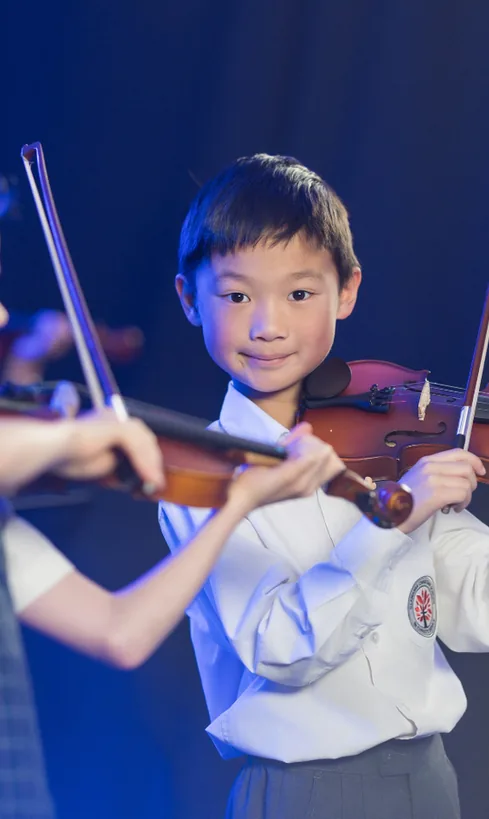
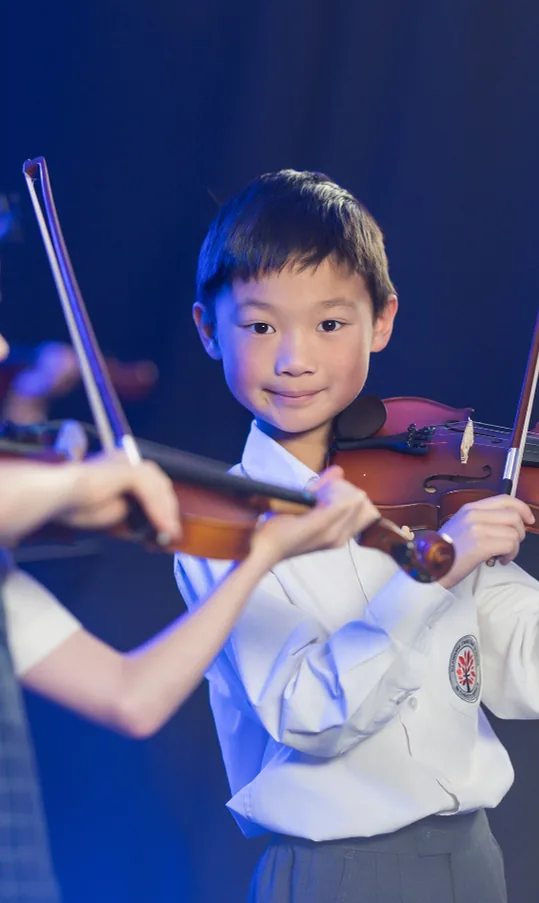
Speed up the inner hero entrance, keep the arriving header steady, sharpen 14 photos from Figma originals

diff --git a/src/assets/scripts/anim.js b/src/assets/scripts/anim.js
@@ -424,7 +424,26 @@ function flush() {
   });
   const hold = window.scrollY < 20 ? Math.max(0, holdUntil - gsap.ticker.time) : 0;
   const step = visible.length > 1 ? Math.min(STAGGER, SPREAD / (visible.length - 1)) : 0;
-  visible.forEach((unit, i) => unit.play(hold + i * step + number(unit.el, "data-anim-delay", 0)));
+  const play = () => visible.forEach((unit, i) => unit.play(i * step + number(unit.el, "data-anim-delay", 0)));
+  if (hold) afterHold(hold, play);
+  else play();
+}
+
+// first-screen reveals wait for the entrance, unless the page is scrolled first
+function afterHold(hold, fn) {
+  let done = false;
+  const run = () => {
+    if (done) return;
+    done = true;
+    call.kill();
+    window.removeEventListener("scroll", onScroll);
+    fn();
+  };
+  const onScroll = () => {
+    if (window.scrollY >= 20) run();
+  };
+  const call = gsap.delayedCall(hold, run);
+  window.addEventListener("scroll", onScroll, { passive: true });
 }
 function enqueue(unit) {
   pending.push(unit);
@@ -480,7 +499,7 @@ function playEntrance(units) {
       landed = Math.max(landed, start + (number(unit.el, "data-anim-landed", 0) || (anim.deferred ? anim.duration : anim.duration())));
     });
   });
-  holdUntil = gsap.ticker.time + BASE + tl.duration() - LEAD;
+  holdUntil = gsap.ticker.time + BASE + landed - LEAD;
   entranceEnd = gsap.ticker.time + BASE + tl.duration() + 0.5;
   return tl;
 }

diff --git a/src/assets/scripts/header.js b/src/assets/scripts/header.js
@@ -5,7 +5,11 @@ export function initHeader() {
   const header = document.querySelector(".site-header");
   const tools = header?.querySelector(".site-header__tools");
   if (!header || !tools) return;
-  const measure = () => header.style.setProperty("--header-tools", `${tools.offsetWidth}px`);
+  const measure = () => {
+    const width = `${tools.offsetWidth}px`;
+    header.style.setProperty("--header-tools", width);
+    try { sessionStorage.setItem("header-tools", width); } catch (e) {}
+  };
   measure();
   window.addEventListener("resize", measure);
   document.fonts?.ready.then(measure);

diff --git a/docs/wagtail-handoff.md b/docs/wagtail-handoff.md
@@ -29,7 +29,7 @@ Focus rings: only for keyboard users. `initFocusMode()` in `ui.js` adds `is-keyb
 
 Search engines: `head.njk` carries `<meta name="robots" content="noindex, nofollow">` so the staging copy stays out of search results. Leave it out of the live base template.
 
-Placeholders left in the data, for the client to replace: the Internal Page Blocks pages (`/page-blocks.html`, `/page-blocks-2.html`) are a kit of example blocks with Figma's placeholder copy ("Internal page example headline", "Subheading", the author's half-written bio), out of the menu; the Faith page's moments repeat "8:15am" and its FAQ answers carry TBCs; Contact's message form repeats the find-us line as its text (as Figma does), its "I'm enquiring about" options after "Enrolment" are placeholders, its photo is Figma's small fill (426 × 562 shown 720 wide; supply a larger original), and its hero is a still of the campus film; the Enrol steps, key dates and FAQ answers carry Figma's "[TBC]" notes; the Entry Points tiles other than Year 5 repeat the home page's tile copy (Figma writes Year 5's only); the Enrol hero is a still of its film (Figma's frame below the header, which covers the top of the fill) until the film is supplied; on Our People every card opens a bio, but only Mr Lainson's is Figma's copy: the other seven are "[TBC]" placeholders; Figma writes one staff quote (Melinda Sharpe's), so every tile repeats its words under its own name, Melinda's photo shows twice (Figma's first tile, and her quote's), and the tile of the staff member Figma does not name reads "Example Name / ICS Staff"; the campus film's `video` is empty; every `url` is empty; the quotes are "Example Name / ICS Parent"; the slide figures are "XX%" (a figure with no digits is left alone by the counter); FAQ answers 2–5 are "[TBC]"; the USP, journey and news photos include stand-ins where Figma draws none (see each block); `video` is empty everywhere (Figma's video fills cannot be exported).
+Placeholders left in the data, for the client to replace: the Internal Page Blocks pages (`/page-blocks.html`, `/page-blocks-2.html`) are a kit of example blocks with Figma's placeholder copy ("Internal page example headline", "Subheading", the author's half-written bio), out of the menu; the Faith page's moments repeat "8:15am" and its FAQ answers carry TBCs; Contact's message form repeats the find-us line as its text (as Figma does), its "I'm enquiring about" options after "Enrolment" are placeholders, its photo is Figma's small fill (426 × 562 shown 720 wide; supply a larger original), and its hero is a still of the campus film; the Enrol steps, key dates and FAQ answers carry Figma's "[TBC]" notes; the Entry Points tiles other than Year 5 repeat the home page's tile copy (Figma writes Year 5's only); the Enrol hero is a still of its film (Figma's frame below the header, which covers the top of the fill) until the film is supplied; on Our People every card opens a bio, but only Mr Lainson's is Figma's copy: the other seven are "[TBC]" placeholders; Figma writes one staff quote (Melinda Sharpe's), so every tile repeats its words under its own name, Melinda's photo shows twice (Figma's first tile, and her quote's), and the tile of the staff member Figma does not name reads "Example Name / ICS Staff"; the campus film's `video` is empty; every `url` is empty; the quotes are "Example Name / ICS Parent"; the slide figures are "XX%" (a figure with no digits is left alone by the counter); FAQ answers 2–5 are "[TBC]"; the USP, journey and news photos include stand-ins where Figma draws none (see each block); `video` is empty everywhere (Figma's video fills cannot be exported). Photos drawn larger than the largest copy Figma holds, so soft on a 1920 screen until the client supplies originals (each file is already Figma's full fill, checked against every image in the file on 2026-11-24): the home slides (`slide-languages-800`, `slide-music-1067`, `slide-camps-1200`, `slide-enrichment-1536`, `slide-leadership-1600`), `journey-year-5`, the 1600-wide heroes and CTA bands (`people-hero-1600`, `entry-hero-1600`, `cta-meet-1600`, `cta-violin-1600`, `cta-classroom`), the Enrol and Contact film stills, Contact's `message-photo`, `story-jeremy`, `text-image-results`, `pillar-faith-ics` and `campus-still`. On a 2× screen most photos are soft for the same reason; Wagtail renditions from full-size originals settle it.
 
 ## Snippets
 
@@ -68,7 +68,7 @@ Figma lays most frames 14–24 up under the rounded foot above them, so the gap 
 ### Header (`partials/header.njk`, `_header.less`, `header.js`)
 - Over the top of the page (`position: absolute`), white. From lg: the landscape logo (`crest.svg` + `wordmark.svg`), `site.header_links` (Museo Sans 500 16, 40 apart, moss on hover) and a frosted pill with `site.header_button` (moss, no dot) and the burger. Below lg: the logo and a white 60 circle with a canopy burger.
 - The burger is `<button data-menu-open aria-haspopup="dialog" aria-controls="menu" aria-expanded>`; `menu.js` opens the menu from any `[data-menu-open]` and keeps `aria-expanded` in step.
-- Entrance: `data-anim-group="fade-down"` on the bar (hero tier, `data-anim-order="4" data-anim-stagger="0.07"`), with `data-anim-item` on the logo, each nav `<li>`, the pill, the pill's button (`anim_item` on the button include) and the burger: once the hero copy is in, they drop 24 one after another from left to right, 0.07s apart, on the compositor on held layers (`will-change: transform` on every item, so the text never redraws half a pixel away as it lands). The frosted pill carries its own `fade` type and takes its turn fading in place as its contents drop in. Below lg the hidden links and button give up their turns, so the burger follows the logo. On a page reached from another of the site's pages the bar carries over (`data-anim-carry`, `anim-carried` set in the head): it shows at once instead of dropping in again (see `docs/animation.md`, Between pages). The Django base template keeps the head script and the attribute as they are.
+- Entrance: `data-anim-group="fade-down"` on the bar (hero tier, `data-anim-order="4" data-anim-stagger="0.07"`), with `data-anim-item` on the logo, each nav `<li>`, the pill, the pill's button (`anim_item` on the button include) and the burger: once the hero copy is in, they drop 24 one after another from left to right, 0.07s apart, on the compositor on held layers (`will-change: transform` on every item, so the text never redraws half a pixel away as it lands). The frosted pill carries its own `fade` type and takes its turn fading in place as its contents drop in. Below lg the hidden links and button give up their turns, so the burger follows the logo. On a page reached from another of the site's pages the bar carries over (`data-anim-carry`, `anim-carried` set in the head): it shows at once instead of dropping in again (see `docs/animation.md`, Between pages). The Django base template keeps the head script, its two font preloads (Museo Sans 500 and 700, the header's faces, so a carried header is drawn in its real font from the first frame) and the attribute as they are; the head script also restores the pill's width (`--header-tools`) that `header.js` keeps in `sessionStorage`.
 - On scroll (the client's ask): the header is not sticky. The logo and links scroll away with the page; only the pill (`.site-header__tools`: Book a tour and the burger from lg, the burger alone below) stays, `position: fixed` where the bar's row put it (centred on the crest's height, at the bar's inset; `@header-tools-top`, `@header-tools-top-sm`). `initHeader()` measures the pill's width into `--header-tools`, the room the bar keeps at its right so the links sit where they did; under the scroll lock the pill keeps the scrollbar's gutter with the bar. Figma's "Hero - On Scroll" phone frame (`15541:30650`, the header held over the scrolled hero) is not built: below lg the logo scrolls away and the burger stays.
 
 ### Menu (`partials/menu.njk`, `_menu.less`, `menu.js`)

diff --git a/docs/animation.md b/docs/animation.md
@@ -94,10 +94,10 @@ gsa.uk.com's panels, for the home page's three pillars (`pillar.stack`). On adja
 - Below lg, under reduced motion, or for a section with no stacked neighbour, nothing changes: the sections scroll and reveal as usual.
 
 ## The page entrance
-Hero-tier steps play on load as one GSAP timeline (`Anim.entrance`), in `data-anim-order`: each order starts 0.4s before the one before it has landed (`data-anim-lead` on a step sets another lead; negative for a pause), and a step lands when its animation ends or `data-anim-landed` seconds in. Steps the timeline cannot own (the title's lines and the glides, on the compositor) are started at once with their position as a delay on the compositor's own clock, and hold a slot of their length in the timeline: a first load stalls the main thread (the hero photo decoding, fonts arriving), the ticker leaps over a stall, and a step started by a callback in it started late while the next kept its time, so the intro arrived under a title still rising; on a reload, with everything cached, it never showed. On the home page: the photo is simply there (no settle), the title rises line by line exactly as every section title does, 0.11s apart (1); as its last line lands (`data-anim-lead="0"`) the intro lifts in under its fade (2, `fade-up-soft`) and the glass button follows it 0.2s later (2, `data-anim-delay="0.2"`); then the header drops in item by item from left to right, 0.07s apart, on the compositor, each landing under its fade (4: the logo, each link, then the pill fading in place as its button and burger drop in); last, the video card springs in from the right over 1.3s (5, lead 1.2, so it comes as the header is still dropping; `data-anim-duration="1.3"`). An inner page's hero runs photo (0), title (2), breadcrumbs (3), and the same header follows. It waits for the webfonts (0.9s at most) so the title is split in its real face, and for the tab to be seen: opened in a background tab, the clock stands still and the timeline would leap on the first look, its steps firing together (the description with the title); hidden mid-way, the timeline's own steps pause while the compositor's run on. The setup and its measuring are done before the entrance's clock starts, and the work the page's `load` event sets off (ScrollTrigger's refresh) waits until the entrance has played, so no frame of it stalls. Anything else on the first screen follows the entrance instead of racing it. A reveal already on the first screen at load takes its start unclamped (a clamped one sat at 0, which a page at rest never passes, so it waited for a scroll).
+Hero-tier steps play on load as one GSAP timeline (`Anim.entrance`), in `data-anim-order`: each order starts 0.4s before the one before it has landed (`data-anim-lead` on a step sets another lead; negative for a pause), and a step lands when its animation ends or `data-anim-landed` seconds in. Steps the timeline cannot own (the title's lines and the glides, on the compositor) are started at once with their position as a delay on the compositor's own clock, and hold a slot of their length in the timeline: a first load stalls the main thread (the hero photo decoding, fonts arriving), the ticker leaps over a stall, and a step started by a callback in it started late while the next kept its time, so the intro arrived under a title still rising; on a reload, with everything cached, it never showed. On the home page: the photo is simply there (no settle), the title rises line by line exactly as every section title does, 0.11s apart (1); as its last line lands (`data-anim-lead="0"`) the intro lifts in under its fade (2, `fade-up-soft`) and the glass button follows it 0.2s later (2, `data-anim-delay="0.2"`); then the header drops in item by item from left to right, 0.07s apart, on the compositor, each landing under its fade (4: the logo, each link, then the pill fading in place as its button and burger drop in); last, the video card springs in from the right over 1.3s (5, lead 1.2, so it comes as the header is still dropping; `data-anim-duration="1.3"`). An inner page's hero photo is simply there too (its zoom-in was dropped: the photo snapped as the zoom handed it back to the page); its title rises (2, counted as landed 0.8s in, so what follows does not wait out its slow rise), then the breadcrumbs (counted as landed 0.6s in) and the header come together (4). It waits for the webfonts (0.9s at most) so the title is split in its real face, and for the tab to be seen: opened in a background tab, the clock stands still and the timeline would leap on the first look, its steps firing together (the description with the title); hidden mid-way, the timeline's own steps pause while the compositor's run on. The setup and its measuring are done before the entrance's clock starts, and the work the page's `load` event sets off (ScrollTrigger's refresh) waits until the entrance has played, so no frame of it stalls. Anything else on the first screen follows the entrance instead of racing it: it waits until the entrance's steps have landed (by their `data-anim-landed`, so the inner hero photo's 2.6s settle holds nothing up), and a scroll before then releases it at once. A reveal already on the first screen at load takes its start unclamped (a clamped one sat at 0, which a page at rest never passes, so it waited for a scroll).
 
 ## Between pages
-There is no page transition: a link changes page as the browser does. The head script marks a page reached from another of the site's pages (a same-origin referrer, not a reload) with `anim-carried` on `<html>`, and `data-anim-carry` (the header's bar) then shows at once instead of joining the entrance, so the header does not drop in again on every page. A first visit and a reload play the header's drop-in.
+There is no page transition: a link changes page as the browser does (a cross-fade through the browser's view transitions was tried and dropped). The head script marks a page reached from another of the site's pages (a same-origin referrer, not a reload) with `anim-carried` on `<html>`, and `data-anim-carry` (the header's bar) then shows at once instead of joining the entrance, so the header does not drop in again on every page. A first visit and a reload play the header's drop-in.
 
 ## Sliders
 - **Card rows** (`slider.js`) — built once the row comes within 1.5 screens (Swiper re-measures a row on every photo that loads inside it, which stalled the page entrance when every row was built at load). `data-slider` on the `.swiper`, `data-slider-gap="20"` (design px). Drags freely with momentum and eases to rest on the house curve; `data-slider-mode="snap"` rests on a card; `data-slider-rewind` makes the arrows wrap round so neither is ever dimmed. Arrows: `[data-slider-prev]` / `[data-slider-next]` inside the nearest `[data-slider-scope]`; in the same scope `[data-slider-current]` / `[data-slider-total]` show the count ("01 / 03") and each `[data-slider-tab]` goes to its card, carrying `aria-current` while that card shows. Lazy photos in the row are loaded a screen early. On every change of card the row dispatches `slider:change` (`detail.index`), which `stories.js` listens for. `data-slider-centred` keeps the active card centred and `data-slider-loop` runs the row round (the count follows the real card); a `[data-slider-caption]` in the scope shows the active card's `data-caption` (the gallery).

diff --git a/CHANGELOG.md b/CHANGELOG.md
@@ -1,5 +1,11 @@
 # Changelog
 
+## 2026-11-24 — Entrance timing, header and photos
+- Inner pages: the header drops in 0.3s after the title starts rising instead of after it and the breadcrumbs have landed (the title counts as landed 0.8s in, the breadcrumbs join the header's step). First-screen content below the hero waits only until the entrance's steps have landed, not for the hero photo's long settle (the statement band comes 0.6s after the title on a page reached from another page, 1.1s on a reload), and a scroll before then starts it at once.
+- The header no longer shifts on a page reached from another page (it shows at once there), worst on the home page: its two faces (Museo Sans 500 and 700) are preloaded in the head, so the arriving page draws it in the real font from its first frame, and the head script restores the pill's width as `header.js` last measured it (`sessionStorage`), so the bar keeps the pill's room before the script runs.
+- The inner-page hero photo is simply there, as the home page's is: its zoom-in made it snap at the end, as the zoom handed it back to the page.
+- Sharper photos where Figma holds a larger original: 14 re-cut from it at the same crop, larger (the drama promo card, Faith's pastoral-care moment and Ethan's testimonial, the prep and primary journey tiles, two news photos, the classroom USP, the phone crops of the home faith pillar, the HSC hero and four CTA bands, the quote avatar). Every other photo already uses Figma's full fill; those soft on a 1920 screen are listed in the handoff for the client to replace.
+
 ## 2026-11-23 — Figma audit
 - Every page compared with its Figma frame at 1440 (and the home page at 430). Fixed: the statement band's copy column sits on the container's right edge on every page, as Figma now draws it (the `pinned` `spread` field is gone); the Why page's upper footer takes the `low` cards like the other inner pages; every "Our Faith" card shows Figma's chapel photo.
 - Sections tucked under the rounded foot above them, as Figma lays its frames: after the statement band (steps, journey intro, welcome, contact details), key dates and the FAQs on Enrol, Where next after a rounded foot, the CTA band over Enrol's FAQs, the upper footer under Keep Exploring; on the phone the USPs, the journey and the news. Enrol, Entry Points and Our People now sit within 1px of Figma down the page, the phone home page within 4px. The frame slop left as is is listed in the handoff (Rounded feet).
